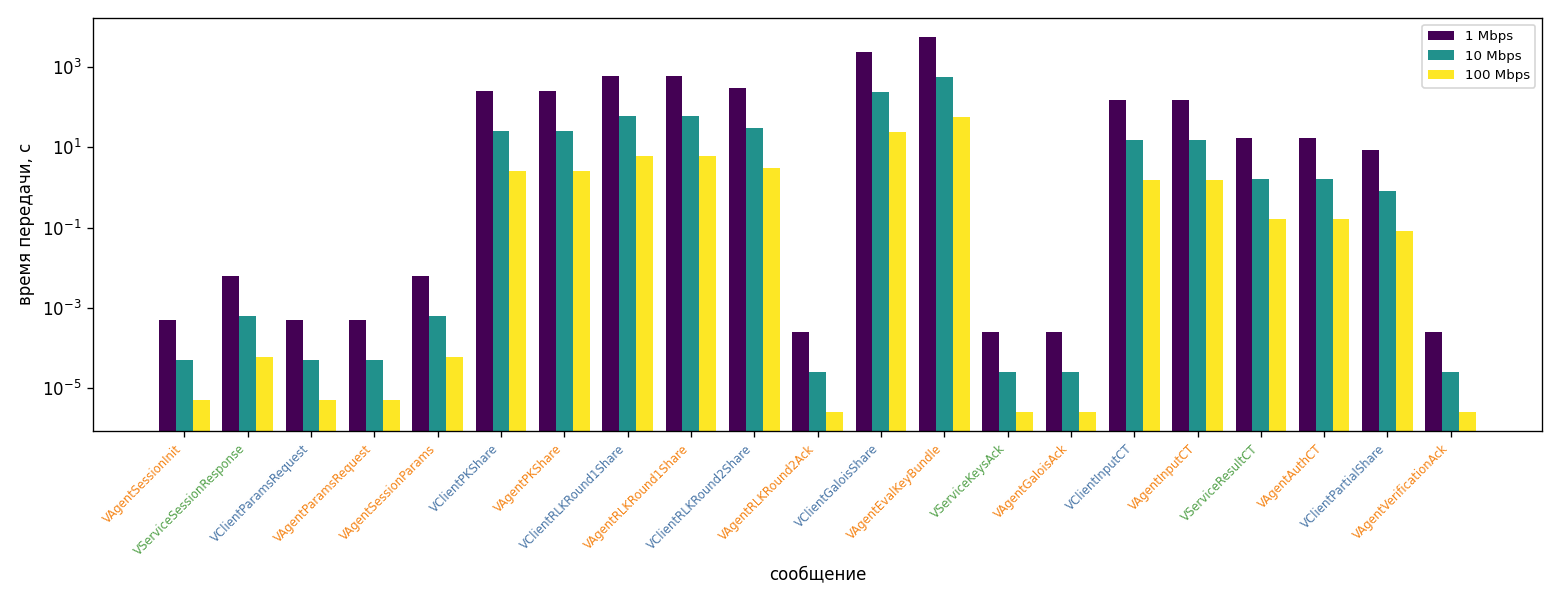
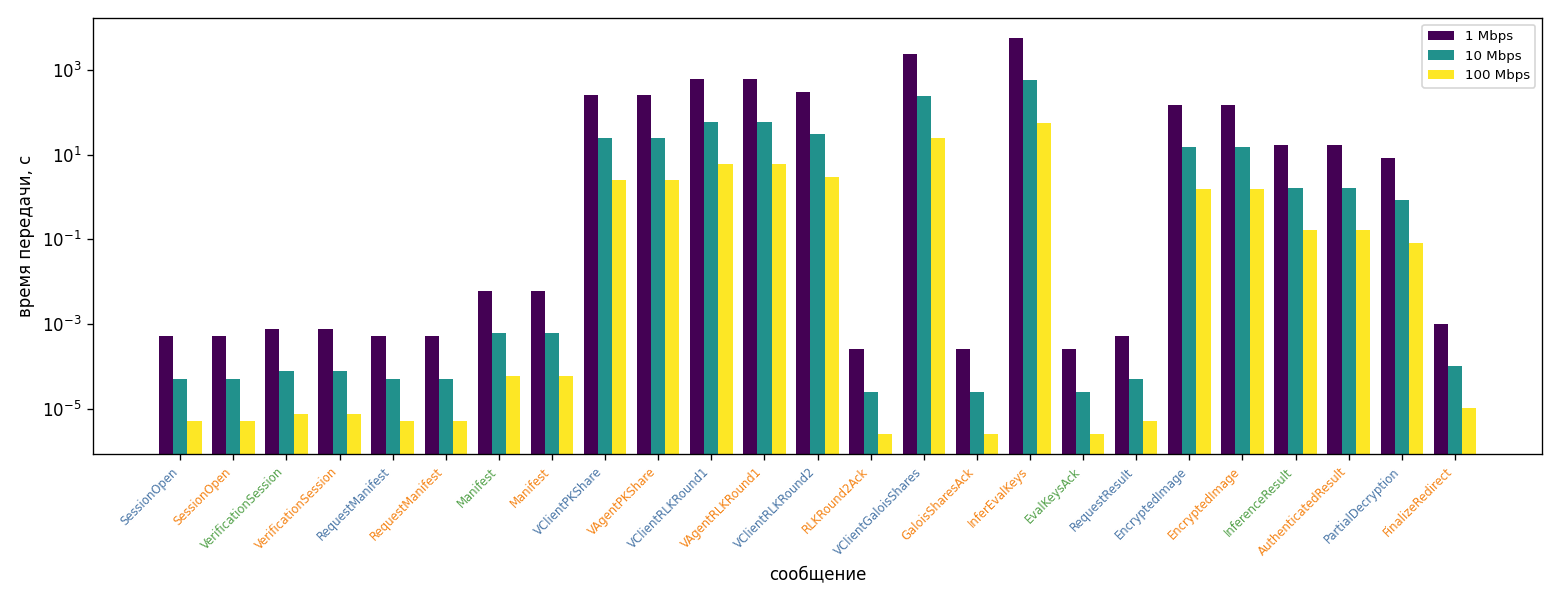
docs(results): regenerate summary.md + plots with renamed catalog
Same eval-v4 data, re-aggregated locally against the new
bench/bench/_messages.py catalog (807fe06). Per-message bytes table
now lists Go-wire-struct ids: SessionOpen, Manifest, InferEvalKeys,
EncryptedImage, InferenceResult, AuthenticatedResult,
PartialDecryption, FinalizeRedirect, plus the empty-body events
RequestManifest, RequestResult, RLKRound2Ack, GaloisSharesAck,
EvalKeysAck.

No protocol re-run; only the aggregator output changed.

diff --git a/results/20260517T034855Z/summary.md b/results/20260517T034855Z/summary.md
@@ -1,6 +1,6 @@
 # Eval summary — 20260517T034855Z
 
-- batch dir: `/home/ubuntu/ppiav/results/20260517T034855Z`
+- batch dir: `/home/butvinm/Dev/ppiav/results/20260517T034855Z`
 - images: 10
 - keygen samples: 18
 
@@ -58,29 +58,33 @@ sub-step samples from the table above._
 
 ## Размер сообщений
 
-| id                      | сообщение                                    | отправитель | получатель |      байт |      КиБ |    МиБ |
-| ----------------------- | -------------------------------------------- | ----------- | ---------- | --------: | -------: | -----: |
-| VAgentSessionInit       | Запрос сессии (агент → сервис)               | агент       | сервис     |        64 |      0.1 |   0.00 |
-| VServiceSessionResponse | Параметры протокола + sid                    | сервис      | агент      |       764 |      0.7 |   0.00 |
-| VClientParamsRequest    | Запрос параметров протокола (клиент → агент) | клиент      | агент      |        64 |      0.1 |   0.00 |
-| VAgentParamsRequest     | Запрос параметров протокола (агент → сервис) | агент       | сервис     |        64 |      0.1 |   0.00 |
-| VAgentSessionParams     | Параметры протокола (агент → клиент)         | агент       | клиент     |       764 |      0.7 |   0.00 |
-| VClientPKShare          | Доля pk клиента                              | клиент      | агент      |  31457792 |  30720.5 |  30.00 |
-| VAgentPKShare           | Доля pk агента                               | агент       | клиент     |  31457792 |  30720.5 |  30.00 |
-| VClientRLKRound1Share   | Доля rlk клиента, раунд 1                    | клиент      | агент      |  75498784 |  73729.3 |  72.00 |
-| VAgentRLKRound1Share    | Доля rlk агента, раунд 1                     | агент       | клиент     |  75498784 |  73729.3 |  72.00 |
-| VClientRLKRound2Share   | Доля rlk клиента, раунд 2                    | клиент      | агент      |  37749424 |  36864.7 |  36.00 |
-| VAgentRLKRound2Ack      | Подтверждение rlk                            | агент       | клиент     |        32 |      0.0 |   0.00 |
-| VClientGaloisShare      | Master доля gks клиента                      | клиент      | агент      | 301995200 | 294917.2 | 288.01 |
-| VAgentEvalKeyBundle     | rlk + pk_top + gks_master → сервису          | агент       | сервис     | 717238220 | 700427.9 | 684.01 |
-| VServiceKeysAck         | Подтверждение установки ключей               | сервис      | агент      |        32 |      0.0 |   0.00 |
-| VAgentGaloisAck         | Подтверждение gks                            | агент       | клиент     |        32 |      0.0 |   0.00 |
-| VClientInputCT          | Шифротекст изображения (клиент → агент)      | клиент      | агент      |  18874958 |  18432.6 |  18.00 |
-| VAgentInputCT           | Шифротекст изображения (агент → сервис)      | агент       | сервис     |  18874958 |  18432.6 |  18.00 |
-| VServiceResultCT        | Шифротекст результата                        | сервис      | агент      |   2097486 |   2048.3 |   2.00 |
-| VAgentAuthCT            | Аутентифицированный шифротекст               | агент       | клиент     |   2097486 |   2048.3 |   2.00 |
-| VClientPartialShare     | Частично расшифрованный шифротекст           | клиент      | агент      |   1048600 |   1024.0 |   1.00 |
-| VAgentVerificationAck   | Подтверждение завершения верификации         | агент       | клиент     |        32 |      0.0 |   0.00 |
+| id                  | сообщение                                    | отправитель | получатель |      байт |      КиБ |    МиБ |
+| ------------------- | -------------------------------------------- | ----------- | ---------- | --------: | -------: | -----: |
+| SessionOpen         | Открытие сессии (клиент → агент)             | клиент      | агент      |        64 |      0.1 |   0.00 |
+| SessionOpen         | Открытие сессии (агент → сервис)             | агент       | сервис     |        64 |      0.1 |   0.00 |
+| VerificationSession | Идентификатор сессии (сервис → агент)        | сервис      | агент      |        96 |      0.1 |   0.00 |
+| VerificationSession | Идентификатор сессии (агент → клиент)        | агент       | клиент     |        96 |      0.1 |   0.00 |
+| RequestManifest     | Запрос параметров протокола (клиент → агент) | клиент      | агент      |        64 |      0.1 |   0.00 |
+| RequestManifest     | Запрос параметров протокола (агент → сервис) | агент       | сервис     |        64 |      0.1 |   0.00 |
+| Manifest            | Параметры протокола (сервис → агент)         | сервис      | агент      |       764 |      0.7 |   0.00 |
+| Manifest            | Параметры протокола (агент → клиент)         | агент       | клиент     |       764 |      0.7 |   0.00 |
+| VClientPKShare      | Доля pk клиента                              | клиент      | агент      |  31457792 |  30720.5 |  30.00 |
+| VAgentPKShare       | Доля pk агента                               | агент       | клиент     |  31457792 |  30720.5 |  30.00 |
+| VClientRLKRound1    | Доля rlk клиента, раунд 1                    | клиент      | агент      |  75498784 |  73729.3 |  72.00 |
+| VAgentRLKRound1     | Доля rlk агента, раунд 1                     | агент       | клиент     |  75498784 |  73729.3 |  72.00 |
+| VClientRLKRound2    | Доля rlk клиента, раунд 2                    | клиент      | агент      |  37749424 |  36864.7 |  36.00 |
+| RLKRound2Ack        | Подтверждение rlk р2 (HTTP 200)              | агент       | клиент     |        32 |      0.0 |   0.00 |
+| VClientGaloisShares | Master доли gks клиента                      | клиент      | агент      | 301995200 | 294917.2 | 288.01 |
+| GaloisSharesAck     | Подтверждение gks (HTTP 200)                 | агент       | клиент     |        32 |      0.0 |   0.00 |
+| InferEvalKeys       | rlk + pk_top + gks_master → сервису          | агент       | сервис     | 717238220 | 700427.9 | 684.01 |
+| EvalKeysAck         | Подтверждение установки ключей (HTTP 200)    | сервис      | агент      |        32 |      0.0 |   0.00 |
+| RequestResult       | Подписка на результат (SSE)                  | клиент      | агент      |        64 |      0.1 |   0.00 |
+| EncryptedImage      | Шифротекст изображения (клиент → агент)      | клиент      | агент      |  18874958 |  18432.6 |  18.00 |
+| EncryptedImage      | Шифротекст изображения (агент → сервис)      | агент       | сервис     |  18874958 |  18432.6 |  18.00 |
+| InferenceResult     | Шифротекст результата                        | сервис      | агент      |   2097486 |   2048.3 |   2.00 |
+| AuthenticatedResult | Аутентифицированный шифротекст               | агент       | клиент     |   2097486 |   2048.3 |   2.00 |
+| PartialDecryption   | Частично расшифрованный шифротекст           | клиент      | агент      |   1048600 |   1024.0 |   1.00 |
+| FinalizeRedirect    | Перенаправление на страницу ресурса          | агент       | клиент     |       128 |      0.1 |   0.00 |
 
 _Note: lattigo-hierkeys ships a single compressed master atom set: `gks_master.bin` is the wire
 artifact (top-level MasterKey bundle) consumed by both VAgent (derives the auth-atom keys locally on
@@ -154,26 +158,30 @@ re-derivation._
 
 ## Время передачи по сети
 
-| id                      |      байт | t @ 1 Mbps | t @ 10 Mbps | t @ 100 Mbps |
-| ----------------------- | --------: | ---------: | ----------: | -----------: |
-| VAgentSessionInit       |        64 |     0.5 ms |      0.1 ms |       0.0 ms |
-| VServiceSessionResponse |       764 |     6.1 ms |      0.6 ms |       0.1 ms |
-| VClientParamsRequest    |        64 |     0.5 ms |      0.1 ms |       0.0 ms |
-| VAgentParamsRequest     |        64 |     0.5 ms |      0.1 ms |       0.0 ms |
-| VAgentSessionParams     |       764 |     6.1 ms |      0.6 ms |       0.1 ms |
-| VClientPKShare          |  31457792 |   4.19 min |     25.17 s |       2.52 s |
-| VAgentPKShare           |  31457792 |   4.19 min |     25.17 s |       2.52 s |
-| VClientRLKRound1Share   |  75498784 |  10.07 min |    1.01 min |       6.04 s |
-| VAgentRLKRound1Share    |  75498784 |  10.07 min |    1.01 min |       6.04 s |
-| VClientRLKRound2Share   |  37749424 |   5.03 min |     30.20 s |       3.02 s |
-| VAgentRLKRound2Ack      |        32 |     0.3 ms |      0.0 ms |       0.0 ms |
-| VClientGaloisShare      | 301995200 |  40.27 min |    4.03 min |      24.16 s |
-| VAgentEvalKeyBundle     | 717238220 |     1.59 h |    9.56 min |      57.38 s |
-| VServiceKeysAck         |        32 |     0.3 ms |      0.0 ms |       0.0 ms |
-| VAgentGaloisAck         |        32 |     0.3 ms |      0.0 ms |       0.0 ms |
-| VClientInputCT          |  18874958 |   2.52 min |     15.10 s |       1.51 s |
-| VAgentInputCT           |  18874958 |   2.52 min |     15.10 s |       1.51 s |
-| VServiceResultCT        |   2097486 |    16.78 s |      1.68 s |     167.8 ms |
-| VAgentAuthCT            |   2097486 |    16.78 s |      1.68 s |     167.8 ms |
-| VClientPartialShare     |   1048600 |     8.39 s |    838.9 ms |      83.9 ms |
-| VAgentVerificationAck   |        32 |     0.3 ms |      0.0 ms |       0.0 ms |
+| id                  |      байт | t @ 1 Mbps | t @ 10 Mbps | t @ 100 Mbps |
+| ------------------- | --------: | ---------: | ----------: | -----------: |
+| SessionOpen         |        64 |     0.5 ms |      0.1 ms |       0.0 ms |
+| SessionOpen         |        64 |     0.5 ms |      0.1 ms |       0.0 ms |
+| VerificationSession |        96 |     0.8 ms |      0.1 ms |       0.0 ms |
+| VerificationSession |        96 |     0.8 ms |      0.1 ms |       0.0 ms |
+| RequestManifest     |        64 |     0.5 ms |      0.1 ms |       0.0 ms |
+| RequestManifest     |        64 |     0.5 ms |      0.1 ms |       0.0 ms |
+| Manifest            |       764 |     6.1 ms |      0.6 ms |       0.1 ms |
+| Manifest            |       764 |     6.1 ms |      0.6 ms |       0.1 ms |
+| VClientPKShare      |  31457792 |   4.19 min |     25.17 s |       2.52 s |
+| VAgentPKShare       |  31457792 |   4.19 min |     25.17 s |       2.52 s |
+| VClientRLKRound1    |  75498784 |  10.07 min |    1.01 min |       6.04 s |
+| VAgentRLKRound1     |  75498784 |  10.07 min |    1.01 min |       6.04 s |
+| VClientRLKRound2    |  37749424 |   5.03 min |     30.20 s |       3.02 s |
+| RLKRound2Ack        |        32 |     0.3 ms |      0.0 ms |       0.0 ms |
+| VClientGaloisShares | 301995200 |  40.27 min |    4.03 min |      24.16 s |
+| GaloisSharesAck     |        32 |     0.3 ms |      0.0 ms |       0.0 ms |
+| InferEvalKeys       | 717238220 |     1.59 h |    9.56 min |      57.38 s |
+| EvalKeysAck         |        32 |     0.3 ms |      0.0 ms |       0.0 ms |
+| RequestResult       |        64 |     0.5 ms |      0.1 ms |       0.0 ms |
+| EncryptedImage      |  18874958 |   2.52 min |     15.10 s |       1.51 s |
+| EncryptedImage      |  18874958 |   2.52 min |     15.10 s |       1.51 s |
+| InferenceResult     |   2097486 |    16.78 s |      1.68 s |     167.8 ms |
+| AuthenticatedResult |   2097486 |    16.78 s |      1.68 s |     167.8 ms |
+| PartialDecryption   |   1048600 |     8.39 s |    838.9 ms |      83.9 ms |
+| FinalizeRedirect    |       128 |     1.0 ms |      0.1 ms |       0.0 ms |
